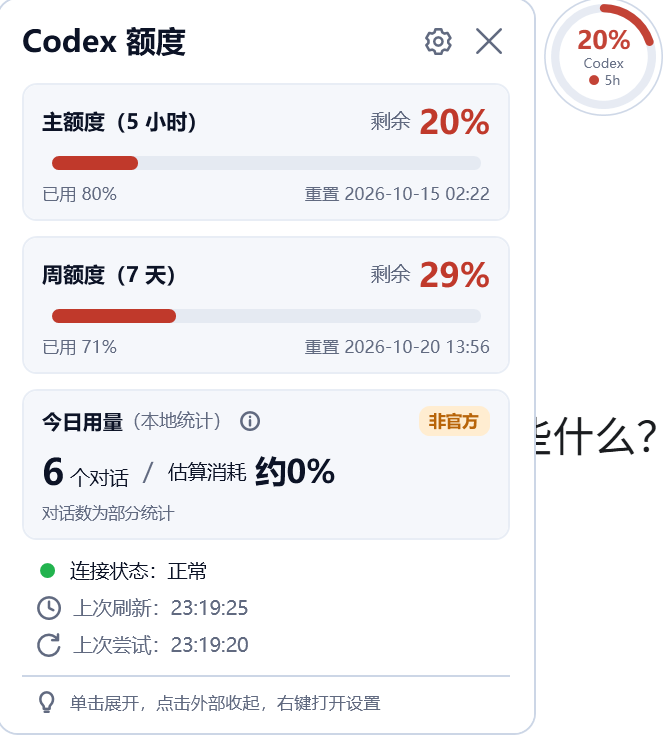
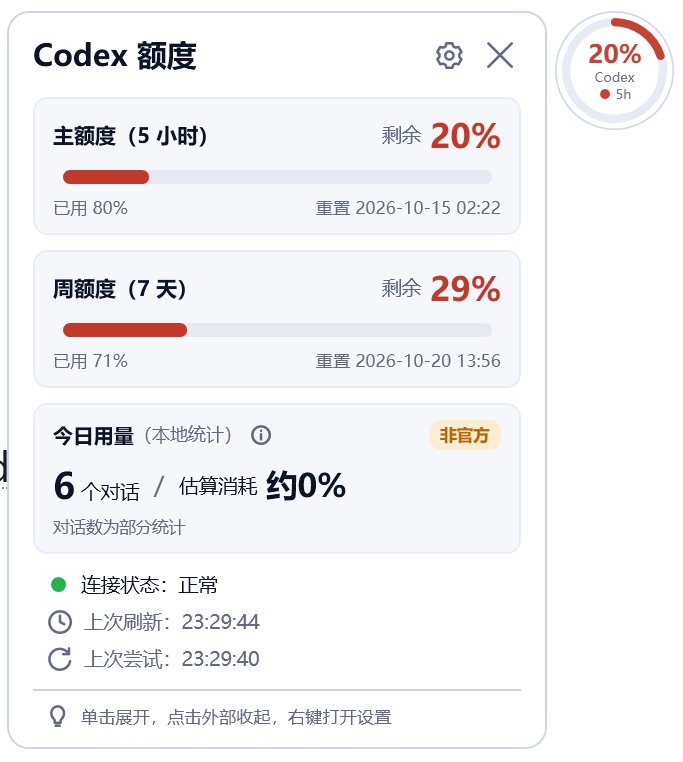
docs: remove screenshot checklist and setup.exe references, update screenshots

diff --git a/README.md b/README.md
@@ -102,19 +102,6 @@ Organized into intuitive category cards. Supports instant UI language switching 
   <img alt="Settings · English" src="images/settings-en.png" width="380" />
 </p>
 
-<details>
-<summary>Click to expand: Screenshot checklist</summary>
-
-| File Name | Recommended Content |
-|---|---|
-| `images/floating-ball.png` | Close-up of the desktop floating ball showing the progress ring |
-| `images/main.png` | Quota details card interface (opened upon clicking the ball) |
-| `images/edge-docking.png` | Side-edge docked capsule state along screen border |
-| `images/settings-zh.png` | Settings window (Language set to "简体中文") |
-| `images/settings-en.png` | Settings window (Language set to "English") |
-
-</details>
-
 ---
 
 ## Quick Start
@@ -138,15 +125,9 @@ Organized into intuitive category cards. Supports instant UI language switching 
 
 #### Windows
 
-1. Download the latest installer or portable archive from [GitHub Releases](https://github.com/Clearelk/CodexQuota/releases):
-   - Setup Installer: `CodexQuota_v{version}_windows_x64-setup.exe`
-   - Portable Zip: `CodexQuota_v{version}_windows_x64.zip`
-2. Run the installer, or extract the zip package and double-click `CodexQuota.Desktop.exe`.
+1. Download the latest release archive `CodexQuota_v{version}_windows_x64.zip` from [GitHub Releases](https://github.com/Clearelk/CodexQuota/releases).
+2. Extract the package and double-click `CodexQuota.Desktop.exe` (Portable self-contained build, no extra .NET runtime required).
 3. The widget will automatically detect your local official Codex CLI and show up on your desktop!
-
-```
-CodexQuota_v{version}_windows_x64-setup.exe
-```
 
 > [!TIP]
 > The widget connects to your local official CLI environment automatically. It does not provide or require an account login form of its own.

diff --git a/README.zh-CN.md b/README.zh-CN.md
@@ -100,19 +100,6 @@
   <img alt="Settings · English" src="images/settings-en.png" width="380" />
 </p>
 
-<details>
-<summary>点击展开：截图存放清单</summary>
-
-| 建议文件名 | 推荐截取内容 |
-|---|---|
-| `images/floating-ball.png` | 桌面上的悬浮球近景特写（进度环与百分比） |
-| `images/main.png` | 点击展开的额度详情主卡片界面 |
-| `images/edge-docking.png` | 悬浮球拖至屏幕左右边缘收缩为胶囊的侧边展示图 |
-| `images/settings-zh.png` | 设置窗口（语言为“简体中文”） |
-| `images/settings-en.png` | 设置窗口（语言切换为“English”） |
-
-</details>
-
 ---
 
 ## 快速开始
@@ -136,15 +123,9 @@
 
 #### Windows
 
-1. 从 [GitHub Releases](https://github.com/Clearelk/CodexQuota/releases) 下载最新版本的安装包或绿色包：
-   - 安装版：`CodexQuota_v{version}_windows_x64-setup.exe`
-   - 便携版：`CodexQuota_v{version}_windows_x64.zip`
-2. 双击安装程序，或解压后直接双击运行 `CodexQuota.Desktop.exe`。
+1. 从 [GitHub Releases](https://github.com/Clearelk/CodexQuota/releases) 下载最新版本的 `CodexQuota_v{version}_windows_x64.zip`。
+2. 解压后双击运行 `CodexQuota.Desktop.exe` 即可（免安装绿色自包含版本，无需预装 .NET 运行时环境）。
 3. 启动后，程序会自动探测本地官方客户端并完成初次刷新，悬浮球即刻出现在桌面角落！
-
-```
-CodexQuota_v{version}_windows_x64-setup.exe
-```
 
 > [!TIP]
 > 悬浮球首次启动会自动探测并连接官方环境。本应用**不提供且不需要**独立的账号密码登录表单，只要你的系统终端能正常使用 `codex` 命令，悬浮球即可自动读取。
